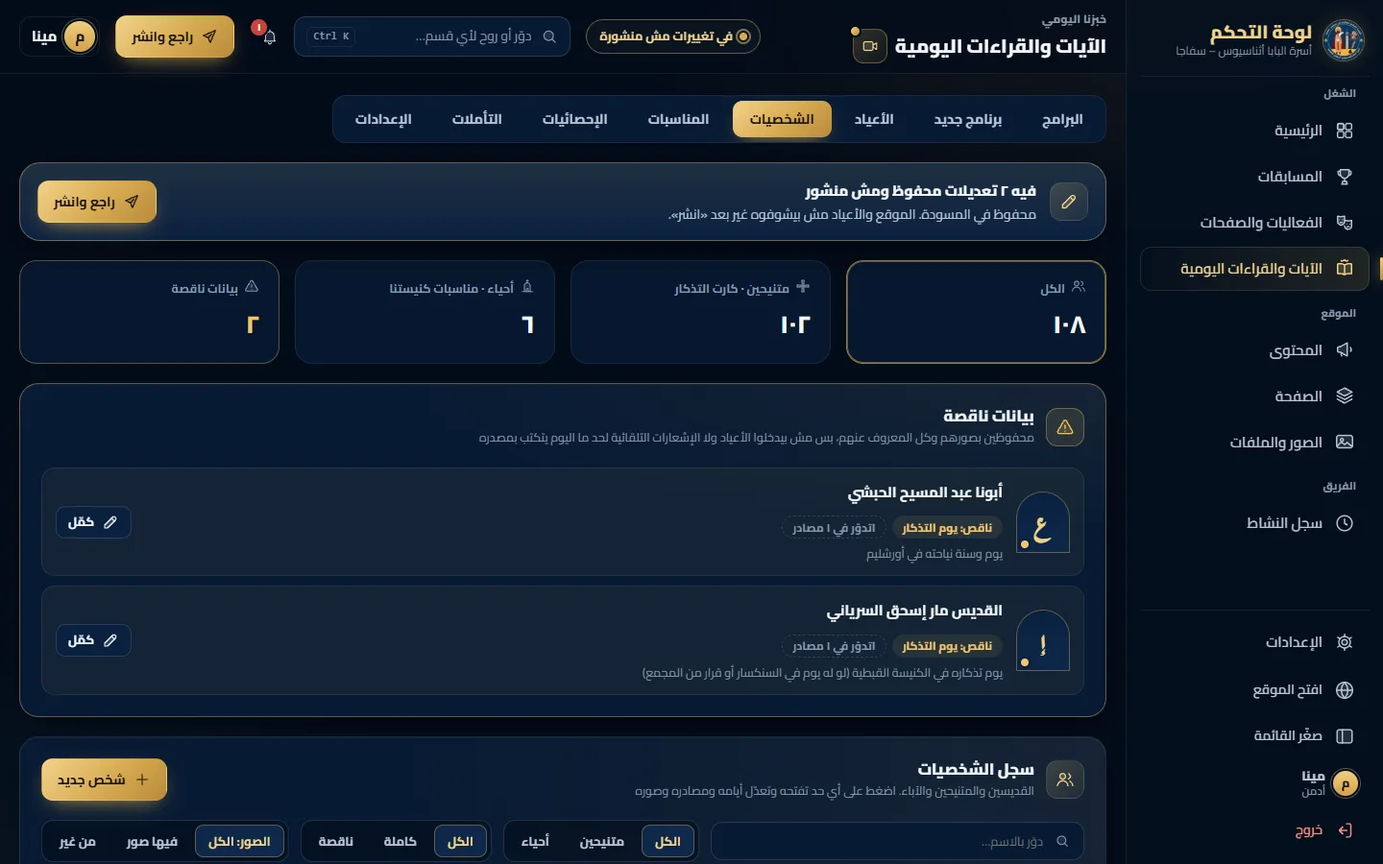
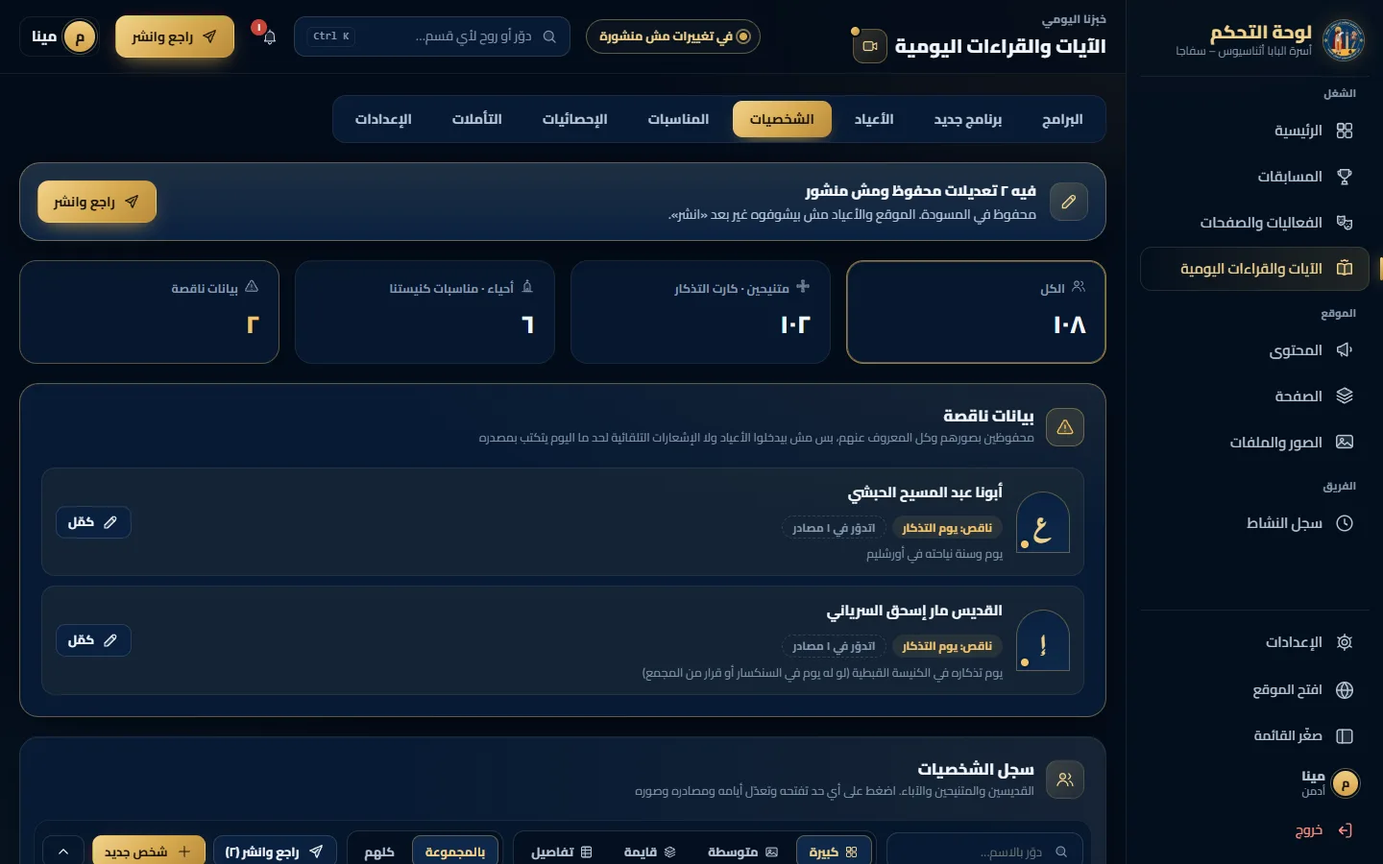
docs(daily-bread): P3 preview - status and countdown off the picture, sticky search/view bar, pictures fill the frame

Changed region(s): [[0.0312, 0.8711, 0.6562, 1.0], [0.7188, 0.9644, 0.7812, 0.9956]]

diff --git a/docs/daily-bread/saints/p3/admin.js b/docs/daily-bread/saints/p3/admin.js
@@ -144,24 +144,38 @@ function filtered() {
 function personRow(p) {
   const days = p.feasts;
   const next = days.length ? days.map(f => ({ f, at: nextOf(f) })).sort((a, b) => a.at < b.at ? -1 : 1)[0] : null;
-  const line = next ? `${ic('calendar', 'ycard__ic')}<span>الجاي: <b>${dayLabel(next.f)}</b>${next.f.coptic ? ` = ${gText(next.at)}` : ` ${AR(next.at.slice(0, 4))}`} · ${esc(next.f.kind)}</span>` : `${ic('alert', 'ycard__ic')}<span>من غير يوم تذكار: مش بيدخل الأعياد ولا الإشعارات</span>`;
+  const line = next ? `${ic('calendar', 'ycard__ic')}<span><b class="sa-left${daysTo(next.at) <= 7 ? ' is-soon' : ''}">${inWords(daysTo(next.at))}</b> · <b>${dayLabel(next.f)}</b>${next.f.coptic ? ` = ${gText(next.at)}` : ` ${AR(next.at.slice(0, 4))}`} · ${esc(next.f.kind)}</span>` : `${ic('alert', 'ycard__ic')}<span>من غير يوم تذكار: مش بيدخل الأعياد ولا الإشعارات</span>`;
   return `<article class="ycard sa-pcard" data-open="${p.id}"><button class="ycard__open" type="button" data-open="${p.id}" aria-label="افتح ${esc(p.name)}"></button>${face(p)}<div class="ycard__main"><bdi class="ycard__name">${esc(p.name)}</bdi><span class="ycard__chips">${p.class === 'living' ? chip('حي · مناسبات كنيستنا', 'gold') : ''}${chip(esc(REG.categories[p.cat] || p.cat), 'off')}${p.status === 'incomplete' ? chip('ناقص: ' + p.missing.map(m => MISS[m]).join('، '), 'warn') : ''}${days.length ? chip(days.length === 1 ? 'يوم واحد' : AR(days.length) + ' أيام', 'info') : ''}${p.praise ? chip('تمجيد', 'info') : ''}${p.album.length ? chip(AR(p.album.length) + ' صور', 'off') : ''}${changed.has(p.id) ? chip('مش منشور', 'warn') : ''}</span><span class="ycard__phone sa-next">${line}</span></div><span class="ycard__go" aria-hidden="true">${ic('chevron')}</span></article>`;
 }
-/* «كبيرة» / «متوسطة»: the picture first, the name on it (an arch, like the youth cards' face) */
+/* how far the next day is: «النهارده» / «بكره» / «بعد يومين» / «بعد ٥ أيام» / «بعد ١٢ يوم» */
+const daysTo = iso => Math.round((Date.parse(iso + 'T00:00:00Z') - Date.parse(TODAY + 'T00:00:00Z')) / 864e5);
+const inWords = n => n === 0 ? 'النهارده' : n === 1 ? 'بكره' : n === 2 ? 'بعد يومين' : n <= 10 ? `بعد ${AR(n)} أيام` : `بعد ${AR(n)} يوم`;
+const nextDay = p => p.feasts.length ? p.feasts.map(f => ({ f, at: nextOf(f) })).sort((x, y) => x.at < y.at ? -1 : 1)[0] : null;
+/* the picture whole: contained on a soft blurred copy of itself, never cut (owner 2026-11-24: «ميكونش وشه مقصوص») */
+const wholePic = (p, w, cls) => { const a = mainOf(p); const u = a && picUrl(a.src, w); return u ? `<span class="sa-whole ${cls}"><img class="sa-whole__bg" src="${u}" alt="" aria-hidden="true" loading="lazy" onerror="this.parentNode.remove()"><img class="sa-whole__img" src="${u}" alt="" loading="lazy" decoding="async" onerror="this.parentNode.remove()"></span>` : ''; };
+/* «كبيرة» / «متوسطة»: the whole picture first, the name in a band under it; the status and «بعد كام يوم» under the card */
 function personTile(p) {
-  const img = picImg(p, S.v === 'large' ? 360 : 160, 'sa-ptile__img');
+  const img = wholePic(p, S.v === 'large' ? 360 : 160, '');
   const a = mainOf(p);
-  const sub = p.class === 'living' ? 'حي · مناسبات كنيستنا' : p.feasts.length ? (() => { const n = p.feasts.map(f => ({ f, at: nextOf(f) })).sort((x, y) => x.at < y.at ? -1 : 1)[0]; return `${dayLabel(n.f)} · ${esc(n.f.kind)}`; })() : 'من غير يوم تذكار';
+  const n = nextDay(p);
+  const when = n ? `${dayLabel(n.f)} · ${esc(n.f.kind)}` : p.class === 'living' ? 'مناسبات كنيستنا' : 'من غير يوم تذكار';
+  const left = n ? daysTo(n.at) : null;
+  const status = [
+    n ? `<span class="sa-left${left <= 7 ? ' is-soon' : ''}">${ic('clock', 'ico-sm')}${inWords(left)}</span>` : '',
+    p.class === 'living' ? chip('حي', 'gold') : '',
+    p.status === 'incomplete' ? chip('ناقص: ' + p.missing.map(m => MISS[m]).join('، '), 'warn') : '',
+    changed.has(p.id) ? chip('مش منشور', 'warn') : ''
+  ].join('');
   return `<button class="sa-ptile${p.status === 'incomplete' ? ' is-incomplete' : ''}${p.class === 'living' ? ' is-living' : ''}" type="button" data-open="${p.id}" aria-label="افتح ${esc(p.name)}">
-    <span class="sa-ptile__frame${img ? ' has-photo' : ''}"><span class="sa-ptile__letter" aria-hidden="true">${letter(p)}</span>${img}
-      <span class="sa-ptile__badges">${p.status === 'incomplete' ? `<span class="sa-badge sa-badge--warn">ناقص: ${p.missing.map(m => MISS[m]).join('، ')}</span>` : ''}${p.class === 'living' ? '<span class="sa-badge sa-badge--gold">حي</span>' : ''}${changed.has(p.id) ? '<span class="sa-badge sa-badge--warn">مش منشور</span>' : ''}</span>
-      <span class="sa-ptile__name">${img && a && a.type === 'ai' ? '<i class="sa-ptile__ai">صورة تعبيرية</i>' : ''}<b>${esc(p.name)}</b>${S.v === 'large' ? `<small>${sub}</small>` : ''}</span></span></button>`;
+    <span class="sa-ptile__frame"><span class="sa-ptile__pic">${img || `<span class="sa-ptile__letter" aria-hidden="true">${letter(p)}</span>`}${img && a && a.type === 'ai' ? '<i class="sa-ptile__ai">صورة تعبيرية</i>' : ''}</span>
+      <span class="sa-ptile__name"><b>${esc(p.name)}</b>${S.v === 'large' ? `<small>${when}</small>` : ''}</span></span>
+    <span class="sa-ptile__status">${status}</span></button>`;
 }
 /* «تفاصيل»: one row each, sortable columns in step B */
 function detailsTable(list) {
   return `<div class="p8-tablewrap sa-tablewrap"><table class="p8-table sa-table"><thead><tr><th></th><th>الاسم</th><th>المجموعة</th><th>النوع</th><th>الأيام</th><th>الجاي</th><th>الصور</th><th>الحالة</th></tr></thead><tbody>${list.map(p => {
     const n = p.feasts.length ? p.feasts.map(f => ({ f, at: nextOf(f) })).sort((x, y) => x.at < y.at ? -1 : 1)[0] : null;
-    return `<tr data-open="${p.id}"><td>${face(p)}</td><td><b>${esc(p.name)}</b></td><td>${esc(REG.categories[p.cat])}</td><td>${p.class === 'living' ? chip('حي', 'gold') : 'متنيح'}</td><td>${AR(p.feasts.length)}</td><td>${n ? `${dayLabel(n.f)}<small class="sa-muted"> ${gText(n.at)}</small>` : '—'}</td><td>${AR(p.album.length)}</td><td>${p.status === 'incomplete' ? chip('ناقص', 'warn') : chip('كاملة', 'ok')}${changed.has(p.id) ? chip('مش منشور', 'warn') : ''}</td></tr>`;
+    return `<tr data-open="${p.id}"><td>${face(p)}</td><td><b>${esc(p.name)}</b></td><td>${esc(REG.categories[p.cat])}</td><td>${p.class === 'living' ? chip('حي', 'gold') : 'متنيح'}</td><td>${AR(p.feasts.length)}</td><td>${n ? `${dayLabel(n.f)} <span class="sa-left${daysTo(n.at) <= 7 ? ' is-soon' : ''}">${inWords(daysTo(n.at))}</span>` : '—'}</td><td>${AR(p.album.length)}</td><td>${p.status === 'incomplete' ? chip('ناقص', 'warn') : chip('كاملة', 'ok')}${changed.has(p.id) ? chip('مش منشور', 'warn') : ''}</td></tr>`;
   }).join('')}</tbody></table></div>`;
 }
 function listBody(list) {
@@ -171,9 +185,13 @@ function listBody(list) {
   return Object.entries(REG.categories).map(([k, name]) => { const l = list.filter(p => p.cat === k); return l.length ? `<section class="sa-group"><h3 class="sa-group__head"><span>${name}</span><small>${AR(l.length)}</small></h3>${draw(l)}</section>` : ''; }).join('');
 }
 const VIEWS = [['large', 'grid', 'كبيرة'], ['medium', 'photos', 'متوسطة'], ['list', 'layers', 'قايمة'], ['details', 'sheet', 'تفاصيل']];
+/* the bar that stays under the top bar while the long list scrolls (owner 2026-11-24): search, the view, grouped or not,
+   «شخص جديد», «راجع وانشر» when something is saved, and «لفوق» */
 function viewBar() {
-  return `<div class="sa-viewbar"><div class="seg p8-filter sa-views" role="radiogroup" aria-label="شكل العرض">${VIEWS.map(([v, i, t]) => `<label class="seg__opt"><input type="radio" name="view" value="${v}" ${S.v === v ? 'checked' : ''}><span>${ic(i, 'ico-sm')}${t}</span></label>`).join('')}</div>
-    <div class="seg p8-filter" role="radiogroup" aria-label="التجميع"><label class="seg__opt"><input type="radio" name="group" value="cat" ${S.g === 'cat' ? 'checked' : ''}><span>جمّع بالمجموعة</span></label><label class="seg__opt"><input type="radio" name="group" value="" ${S.g !== 'cat' ? 'checked' : ''}><span>كلهم مع بعض</span></label></div></div>`;
+  return `<div class="sa-viewbar" data-sticky><label class="p8-search sa-vsearch">${ic('search')}<input class="p8-search__input" type="search" placeholder="دوّر بالاسم…" aria-label="بحث" value="${esc(S.q)}" data-q></label>
+    <div class="seg p8-filter sa-views" role="radiogroup" aria-label="شكل العرض">${VIEWS.map(([v, i, t]) => `<label class="seg__opt" title="${t}"><input type="radio" name="view" value="${v}" ${S.v === v ? 'checked' : ''}><span>${ic(i, 'ico-sm')}<em>${t}</em></span></label>`).join('')}</div>
+    <div class="seg p8-filter sa-groupseg" role="radiogroup" aria-label="التجميع"><label class="seg__opt"><input type="radio" name="group" value="cat" ${S.g === 'cat' ? 'checked' : ''}><span><em class="sa-lg">بالمجموعة</em><em class="sa-sm">مجمّع</em></span></label><label class="seg__opt"><input type="radio" name="group" value="" ${S.g !== 'cat' ? 'checked' : ''}><span>كلهم</span></label></div>
+    <span class="sa-viewbar__end">${changed.size ? btn(`راجع وانشر (${AR(changed.size)})`, 'send', 'btn--sm', 'data-go="publish"') : ''}${btn('شخص جديد', 'plus', 'btn--primary btn--sm', 'data-act="new"')}${btn('', 'chevron-up', 'btn--sm btn--ghost btn--icon sa-totop', 'data-act="top" aria-label="لفوق" title="لفوق"')}</span></div>`;
 }
 function viewPeople() {
   const inc = people.filter(p => p.status === 'incomplete');
@@ -185,14 +203,14 @@ function viewPeople() {
   }).join('')}</ul>`, 'sa-misscard', 'warn') : '';
   const list = filtered();
   const cats = Object.entries(REG.categories);
-  const filters = `<div class="p8-card__filters sa-filters"><label class="p8-search">${ic('search')}<input class="p8-search__input" type="search" placeholder="دوّر بالاسم…" aria-label="بحث" value="${esc(S.q)}" data-q></label>
+  const filters = `<div class="p8-card__filters sa-filters">
     ${seg('cls', 'النوع', [['', 'الكل'], ['reposed', 'متنيحين'], ['living', 'أحياء']], S.cls)}
     ${seg('stat', 'البيانات', [['', 'الكل'], ['complete', 'كاملة'], ['incomplete', 'ناقصة']], S.stat)}
     ${seg('photo', 'الصور', [['', 'الصور: الكل'], ['yes', 'فيها صور'], ['no', 'من غير']], S.photo)}
     ${seg('praise', 'التمجيد', [['', 'التمجيد: الكل'], ['yes', 'فيه تمجيد'], ['no', 'من غير']], S.praise)}
     <select class="input sa-cat" aria-label="المجموعة" data-cat><option value="">كل المجموعات</option>${cats.map(([k, v]) => `<option value="${k}" ${S.cat === k ? 'selected' : ''}>${v}</option>`).join('')}</select></div>`;
-  const body = `${filters}${viewBar()}<p class="sa-count">${list.length === people.length ? `${AR(list.length)} شخص، بترتيب السجل (اللي قبل بيكسب لو اتنين في نفس اليوم)` : `${AR(list.length)} من ${AR(people.length)}`}${PICS ? '' : ' · الصور بتظهر بعد P4'}</p>${listBody(list)}`;
-  return dirtyBar() + kpis + miss + card('users', 'سجل الشخصيات', 'القديسين والمتنيحين والآباء. اضغط على أي حد تفتحه وتعدّل أيامه ومصادره وصوره', btn('شخص جديد', 'plus', 'btn--primary', 'data-act="new"'), body);
+  const body = `${viewBar()}${filters}<p class="sa-count">${list.length === people.length ? `${AR(list.length)} شخص، بترتيب السجل (اللي قبل بيكسب لو اتنين في نفس اليوم)` : `${AR(list.length)} من ${AR(people.length)}`}${PICS ? '' : ' · الصور بتظهر بعد P4'}</p>${listBody(list)}`;
+  return dirtyBar() + kpis + miss + card('users', 'سجل الشخصيات', 'القديسين والمتنيحين والآباء. اضغط على أي حد تفتحه وتعدّل أيامه ومصادره وصوره', '', body, 'sa-regcard');
 }
 
 /* ---------- الشخص ---------- */
@@ -207,7 +225,7 @@ function msRow(m, i) {
 }
 function albumTile(a, i, p) {
   const name = a.src.split('/').pop().replace(/\.\w+$/, '');
-  return `<div class="media-tile sa-tile${a.main ? ' is-main' : ''}">${picUrl(a.src, 360) ? `<span class="media-tile__frame"><img class="media-tile__img" src="${picUrl(a.src, 360)}" alt="" loading="lazy" onerror="this.remove()"></span>` : `<span class="media-tile__frame sa-tile__frame">${ic('photos')}<small>مستني P4</small></span>`}<span class="media-tile__name">${esc(name)}</span><span class="media-tile__meta">${a.type === 'ai' ? chip('صورة تعبيرية', 'gold') : chip('صورة حقيقية', 'info')}${a.main ? chip('الأساسية', 'ok') : ''}</span><span class="sa-tile__acts">${btn('', 'edit', 'btn--sm btn--ghost btn--icon', `data-m="photo" data-i="${i}" aria-label="عدّل الصورة"`)}${btn('', 'trash', 'btn--sm btn--ghost btn--icon', 'aria-label="شيل من الألبوم"')}</span></div>`;
+  return `<div class="media-tile sa-tile${a.main ? ' is-main' : ''}">${picUrl(a.src, 360) ? `<span class="media-tile__frame"><span class="sa-whole"><img class="sa-whole__bg" src="${picUrl(a.src, 360)}" alt="" aria-hidden="true" loading="lazy"><img class="sa-whole__img" src="${picUrl(a.src, 360)}" alt="" loading="lazy" onerror="this.parentNode.remove()"></span></span>` : `<span class="media-tile__frame sa-tile__frame">${ic('photos')}<small>مستني P4</small></span>`}<span class="media-tile__name">${esc(name)}</span><span class="media-tile__meta">${a.type === 'ai' ? chip('صورة تعبيرية', 'gold') : chip('صورة حقيقية', 'info')}${a.main ? chip('الأساسية', 'ok') : ''}</span><span class="sa-tile__acts">${btn('', 'edit', 'btn--sm btn--ghost btn--icon', `data-m="photo" data-i="${i}" aria-label="عدّل الصورة"`)}${btn('', 'trash', 'btn--sm btn--ghost btn--icon', 'aria-label="شيل من الألبوم"')}</span></div>`;
 }
 function viewPerson() {
   const p = byId(S.id) || people[0];
@@ -216,7 +234,7 @@ function viewPerson() {
     ? `بيظهر في «مناسبات كنيستنا» بس${p.feasts.length ? ': ' + p.feasts.map(f => `${dayLabel(f)} (${esc(f.kind)})`).join('، ') : ''}. عمره ما بيظهر في كارت «النهارده تذكار…».`
     : p.feasts.length ? `بيدخل كارت «النهارده تذكار…» لوحده كل سنة: ${p.feasts.map(f => `<b>${dayLabel(f)}</b>`).join(' و')}.` : 'مش بيدخل الأعياد ولا الإشعارات التلقائية لحد ما يتكتب يوم تذكار بمصدره.';
   const head = `<div class="sa-back">${btn('رجوع للشخصيات', 'arrow', 'btn--ghost btn--small', 'data-go="people"')}</div>
-  <section class="card p8-card sa-hero">${face(p, true)}<div class="sa-hero__main"><h2 class="sa-hero__name">${esc(p.name)}</h2><span class="ycard__chips">${living ? chip('حي · مناسبات كنيستنا', 'gold') : chip('متنيح · كارت التذكار', 'info')}${chip(esc(REG.categories[p.cat]), 'off')}${p.status === 'incomplete' ? chip('بيانات ناقصة', 'warn') : chip('كاملة', 'ok')}${changed.has(p.id) ? chip('محفوظ ومش منشور', 'warn') : ''}</span><p class="sa-hero__where">${ic(living ? 'church' : p.feasts.length ? 'check' : 'alert', 'ico-sm')}<span>${where}</span></p></div><div class="sa-hero__acts">${btn('شيل', 'trash', 'btn--ghost btn--sm sa-danger', 'data-m="delete"')}${btn('احفظ', 'check', 'btn--primary', 'data-act="save"')}</div></section>`;
+  <section class="card p8-card sa-hero">${wholePic(p, 720, 'sa-hero__pic') || face(p, true)}<div class="sa-hero__main"><h2 class="sa-hero__name">${esc(p.name)}</h2><span class="ycard__chips">${living ? chip('حي · مناسبات كنيستنا', 'gold') : chip('متنيح · كارت التذكار', 'info')}${chip(esc(REG.categories[p.cat]), 'off')}${p.status === 'incomplete' ? chip('بيانات ناقصة', 'warn') : chip('كاملة', 'ok')}${changed.has(p.id) ? chip('محفوظ ومش منشور', 'warn') : ''}</span><p class="sa-hero__where">${ic(living ? 'church' : p.feasts.length ? 'check' : 'alert', 'ico-sm')}<span>${where}</span></p></div><div class="sa-hero__acts">${btn('شيل', 'trash', 'btn--ghost btn--sm sa-danger', 'data-m="delete"')}${btn('احفظ', 'check', 'btn--primary', 'data-act="save"')}</div></section>`;
   const missing = p.status === 'incomplete' ? `<div class="ba-alert ba-alert--warn sa-missalert" role="status"><span class="chipico chipico--warn" aria-hidden="true">${ic('alert')}</span><div class="ba-alert__text"><b>بيانات ناقصة: ${p.missing.map(m => MISS[m]).join('، ')}</b><small>الشخص محفوظ ومش هيتشال. أول ما تضيف يوم بمصدره وتنشر، بيدخل الأعياد التلقائية لوحده، من غير كود ولا استيراد.</small></div>${p.missing.includes('feasts') ? btn('ضيف يوم', 'plus', 'btn--primary', 'data-m="newday"') : ''}</div>` : '';
   const basics = card('user', 'البيانات الأساسية', '', '', `<div class="ba-dayform">${field('الاسم', input(p.name, 'maxlength="120"'), 'زي ما بيظهر للشباب في الكارت')}
     <div class="ba-dayform__two">${field('النوع', seg('pcls', 'النوع', [['reposed', 'متنيح'], ['living', 'حي']], p.class), living ? '«مناسبات كنيستنا» بس، بصوره الحقيقية' : 'كارت «النهارده تذكار…»')}${field('المجموعة', `<select class="input">${Object.entries(REG.categories).map(([k, v]) => `<option ${k === p.cat ? 'selected' : ''}>${v}</option>`).join('')}</select>`)}</div>
@@ -405,10 +423,17 @@ function view() {
   if (S.s === 'publish') return viewPublish();
   return viewPeople();
 }
+/* the sticky bar sits right under the panel's own top bar, whatever its height on this screen */
+function stickTop() {
+  const t = document.querySelector('.topbar');
+  html.style.setProperty('--sa-top', (t && getComputedStyle(t).position === 'sticky' ? Math.round(t.getBoundingClientRect().height) : 0) + 'px');
+}
+addEventListener('resize', stickTop);
 function render(keepScroll = false) {
   const y = window.scrollY;
   document.body.innerHTML = shell(view());
   html.classList.remove('is-intro');
+  stickTop();
   if (keepScroll) window.scrollTo(0, y);
   const p = byId(S.id);
   if (S.m === 'day' && p) dayModal(p, S.i);
@@ -435,6 +460,7 @@ document.addEventListener('click', e => {
     S.stat = S.f === 'incomplete' ? 'incomplete' : '';
     render(true); return;
   }
+  if (t.dataset.act === 'top') { window.scrollTo({ top: 0, behavior: 'smooth' }); return; }
   if (t.dataset.act === 'save') { changed.add(S.id); render(true); return; }
   if (t.dataset.act === 'publish') { S.done = true; render(); window.scrollTo(0, 0); return; }
 });

diff --git a/docs/daily-bread/saints/p3/p3-admin.css b/docs/daily-bread/saints/p3/p3-admin.css
@@ -189,3 +189,87 @@
   .sa-views .seg__opt span { flex-direction: column; gap: 2px; font-size: .74rem; padding-inline: 2px; }
   .sa-viewbar > .seg:not(.sa-views) { display: grid; grid-template-columns: 1fr 1fr; }
 }
+
+/* round 3 (owner 2026-11-24): the picture whole, the status off the face, «بعد كام يوم», the bar that stays */
+.sa-whole { position: absolute; inset: 0; overflow: hidden; display: block; }
+.sa-whole__bg { position: absolute; inset: -12%; width: 124%; height: 124%; object-fit: cover; filter: blur(18px) brightness(.55) saturate(1.15); transform: scale(1.05); }
+.sa-whole__img { position: absolute; inset: 0; width: 100%; height: 100%; object-fit: contain; object-position: center top; }
+.sa-ptile { display: grid; gap: 8px; border-radius: 0; }
+.sa-ptile__frame { display: flex; flex-direction: column; aspect-ratio: 3 / 4; place-items: stretch; }
+.sa-ptile__pic { position: relative; flex: 1; min-height: 0; display: grid; place-items: center; }
+.sa-ptile__pic > .sa-ptile__letter { margin: 0; }
+.sa-ptile__name { position: static; flex: none; padding: 9px 10px 11px; background: linear-gradient(180deg, rgb(6 26 49 / .96), rgb(3 12 26)); border-top: 1px solid rgb(var(--acc-rgb) / .28); }
+.sa-ptile__name b { display: -webkit-box; -webkit-line-clamp: 2; -webkit-box-orient: vertical; overflow: hidden; }
+.sa-ptiles--medium .sa-ptile__name { padding: 7px 6px 8px; }
+.sa-ptile__ai { position: absolute; z-index: 1; inset: auto auto 6px 8px; justify-self: auto; background: rgb(2 9 20 / .6); }
+.sa-ptile__status { display: flex; flex-wrap: wrap; gap: 5px; justify-content: center; min-height: 24px; }
+.sa-ptile__status .chip { font-size: .7rem; }
+.sa-ptiles--medium .sa-ptile__status .chip { display: none; }
+.sa-ptiles--medium .sa-ptile__status .chip--warn { display: inline-flex; }
+.sa-left { display: inline-flex; align-items: center; gap: 4px; font-size: .74rem; font-weight: 700; color: var(--text-3); white-space: nowrap; }
+.sa-left .ico-sm svg { width: 13px; height: 13px; }
+.sa-left.is-soon { color: var(--gold); }
+.sa-badge, .sa-ptile__badges { display: none; }
+
+/* the bar that stays under the top bar */
+.sa-regcard { overflow: visible; }
+.sa-viewbar { position: sticky; top: var(--sa-top, 0px); z-index: 6; margin: 0 -8px 12px; padding: 10px 8px; border-radius: 16px; background: rgb(6 22 43 / .92); backdrop-filter: blur(12px); border: 1px solid var(--p-line-2); box-shadow: 0 14px 30px -22px #000; flex-wrap: nowrap; }
+html[data-mode="light"] .sa-viewbar { background: rgb(255 255 255 / .92); }
+.sa-vsearch { flex: 1 1 200px; min-width: 0; }
+.sa-views .seg__opt em { font-style: normal; }
+.sa-viewbar__end { display: flex; gap: 8px; align-items: center; margin-inline-start: auto; }
+.sa-dirty { position: static; }
+.sa-hero__pic { position: relative; flex: none; width: 150px; aspect-ratio: 3 / 4; border-radius: 80px 80px 16px 16px; overflow: hidden; box-shadow: inset 0 0 0 1px var(--line-strong), 0 16px 30px -20px #000; }
+.sa-album .media-tile__frame { position: relative; }
+@media (max-width: 1200px) and (min-width: 721px) {
+  .sa-views .seg__opt em { display: none; }
+}
+@media (max-width: 720px) {
+  .sa-viewbar { flex-direction: row; flex-wrap: wrap; align-items: center; margin-inline: -4px; padding: 8px; gap: 8px; }
+  .sa-vsearch { flex: 1 1 100%; order: 0; }
+  .sa-views { display: flex; flex: 1 1 auto; order: 1; }
+  .sa-views .seg__opt { flex: 1; }
+  .sa-views .seg__opt span { justify-content: center; padding-block: 6px; }
+  .sa-views .seg__opt span { flex-direction: row; }
+  .sa-views .seg__opt em { display: none; }
+  .sa-groupseg { order: 2; display: flex !important; flex: none; }
+  .sa-viewbar__end { order: 3; flex: 1 1 100%; }
+  .sa-viewbar__end .btn--primary { flex: 1; }
+  .sa-hero__pic { width: 120px; }
+}
+/* the panel hides card search boxes on phones; here the owner asked for the name search to stay (2026-11-24) */
+@media (max-width: 759px) { .sa-regcard .sa-vsearch { display: flex; } }
+/* phones: the bar in two short rows — [search][+ شخص جديد] / [views][grouping][↑] */
+@media (max-width: 720px) {
+  .sa-viewbar { gap: 6px; padding: 6px; }
+  .sa-viewbar__end { display: contents; }
+  .sa-vsearch { flex: 1 1 100px; order: 0; min-height: 40px; }
+  .sa-viewbar__end .btn--primary { order: 1; flex: none; }
+  .sa-viewbar__end .btn:not(.btn--primary):not(.sa-totop) { order: 1; flex: none; }
+  .sa-views { order: 2; flex: 1 1 auto; }
+  .sa-views .seg__opt span { padding: 4px 0; min-height: 34px; }
+  .sa-groupseg { order: 3; }
+  .sa-groupseg .seg__opt span { padding: 4px 8px; min-height: 34px; font-size: .78rem; }
+  .sa-totop { order: 1; flex: none; }
+  .sa-groupseg { flex: none; }
+  .sa-views .seg__opt span { padding-inline: 6px; }
+}
+@media (max-width: 720px) {
+  .sa-views { flex: 0 0 auto; }
+  .sa-views .seg__opt { flex: none; }
+  .sa-views .seg__opt span { width: 34px; padding-inline: 0; }
+  .sa-groupseg { flex: 1 1 auto; }
+  .sa-groupseg .seg__opt { flex: 1; }
+  .sa-groupseg .seg__opt span { justify-content: center; }
+}
+@media (max-width: 720px) {
+  .sa-views .seg__opt { padding: 0 4px; }
+  .sa-groupseg .seg__opt { padding: 0 6px; }
+}
+@media (max-width: 720px) { .sa-groupseg { flex: 1 1 0 !important; min-width: 0; } }
+.sa-sm { display: none; }
+.sa-lg, .sa-sm { font-style: normal; }
+@media (max-width: 720px) { .sa-lg { display: none; } .sa-sm { display: inline; } .sa-groupseg .seg__opt { padding: 0 4px; } .sa-groupseg .seg__opt span { padding-inline: 6px; } }
+/* round 4 (owner 2026-11-24): no empty sides — the picture fills the frame; the crop tool (step B/next round) saves each photo's own focus and zoom */
+.sa-whole__bg { display: none; }
+.sa-whole__img { object-fit: cover; object-position: center 12%; }
